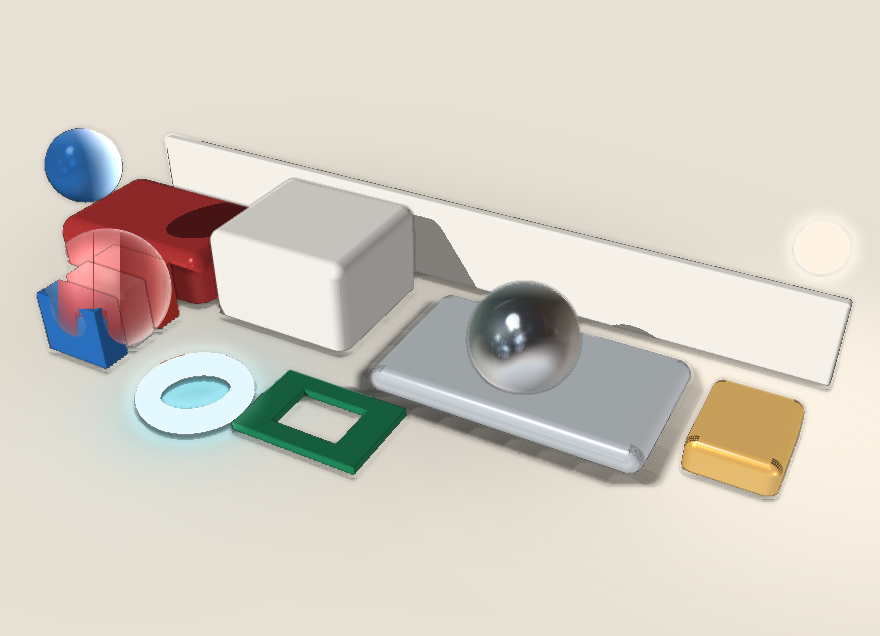
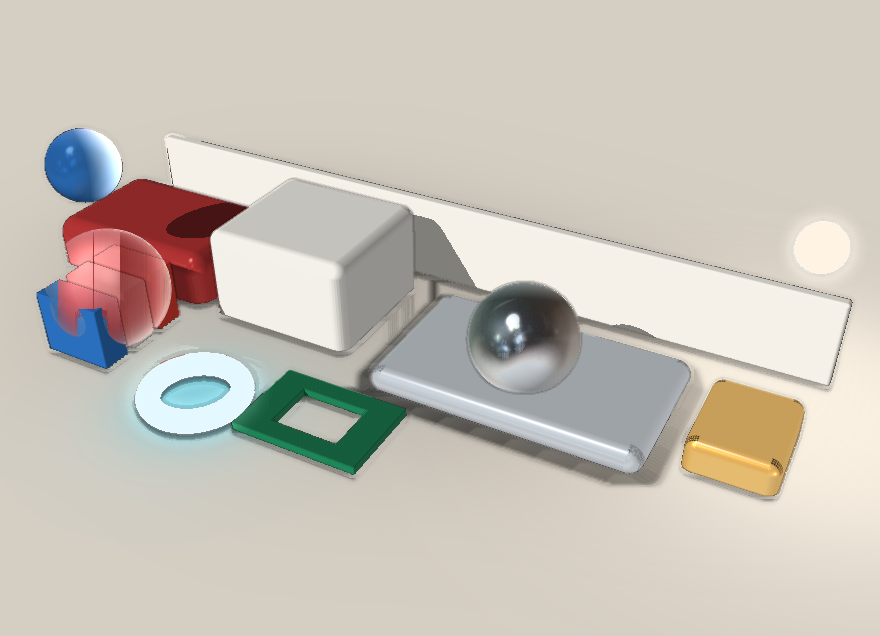
QUALITY-6 tip horzmild: mute still floor; mid cream Mac page.
Desksoft plateau 6/6/7/6 — quieter floor/page contrast for wall hairline
and pale Mac lip without bez9page's over-muted cream.

diff --git a/examples/macbook-pro.tsx b/examples/macbook-pro.tsx
@@ -3,7 +3,7 @@
 // 银色 16 英寸 MacBook Pro 海报，以后渲染用这个场景。
 // npx tsx src/cli.ts render examples/macbook-pro.tsx -o examples/macbook-pro.png
 // 机身 980 × 670 × 30，屏幕盖 980 × 666 × 10，按 2.755 px/mm 换算。
-// Desksoft: keep notick; mild darker silver so cream|shell AA lip is less bright.
+// Horzmild: keep notick + desksoft silver; mid cream page (between pagesoft and bez9page).
 const SILVER = '#454b53'
 const LID_SILVER = '#454b53'
 const SHELL = 'matte'
@@ -210,8 +210,8 @@ function Lid() {
 }
 
 export default (
-  <layer width="1440" height="1800" background="#f6f3ee" color="#1c1916" min-font="10" noise="0.018">
-    <rect x="0" y="0" width="1440" height="1800" fill="linear-gradient(180deg, #f7f4ef 0%, #efe8df 100%)" />
+  <layer width="1440" height="1800" background="#f0ebe4" color="#1c1916" min-font="10" noise="0.018">
+    <rect x="0" y="0" width="1440" height="1800" fill="linear-gradient(180deg, #f3efe8 0%, #e9e2d7 100%)" />
     <layer width="1440" height="1800" camera="fov 28, orbit 16 14" light="world" grade="matte 0.85">
       {/* Neutral key — warm hemi alone bounced chrome-orange on the hinge (§9.2). */}
       <light type="hemisphere" intensity="0.32" color="#e2e4e8" ground-color="#aeb2b8" />
@@ -219,7 +219,7 @@ export default (
       <light type="directional" intensity="0.03" color="#d6dae0" x="-280" y="-200" z="400" target="0 0 0" />
       <Lid />
       <Base />
-      <ground y={STAGE.groundY} rotateX="90" fill="#efe8df" shadow-blur="250" shadow-opacity="0.12" />
+      <ground y={STAGE.groundY} rotateX="90" fill="#e9e2d7" shadow-blur="250" shadow-opacity="0.12" />
     </layer>
     <layer x="80" y="66">
       <p style="font-family:Inter; font-size:13px; font-weight:700; letter-spacing:6.2px; color:#c88255">PRO PERFORMANCE · M4 MAX</p>

diff --git a/scripts/gallery-3d.ts b/scripts/gallery-3d.ts
@@ -340,7 +340,7 @@ function buildPlates(): { sheet: string; title: string; cols: number; cells: Pla
       title: '静物 · studio · draft',
       width: BENCH_W,
       height: BENCH_H + 96,
-      // Desksoft: lift page again — notick A still cited wall-top hairline.
+      // Horzmild: keep desksoft page; mute cream floor so wall-top AA vs page is quieter.
       background: '#38322c',
       caption: '贴地接触 · 悬空软影 · 缝里的遮挡 · 铬球 · 玻璃和色条 · 洞 · 霓虹 · 灯',
       // Still-only: cooler white stripe + clear glass (horizontal white killed
@@ -349,10 +349,8 @@ function buildPlates(): { sheet: string; title: string; cols: number; cells: Pla
         bench()
           .replace(
             '<ground id="ground" y="530" rotateX="90" fill="#e7e0d4" shadow-blur="40" shadow-opacity="0.5" />',
-            // Mintbars: glassvol A jagged plate contact — softer penumbra.
-            // Keep plate metalness ≤0.62 / r≥0.48 — brighter plate blew SSR >0.01.
-            // Macmid: slightly softer contact under plate (maclip B speckles).
-            '<ground id="ground" y="530" rotateX="90" fill="#e7e0d4" shadow-blur="225" shadow-opacity="0.18" />',
+            // Horzmild: darker cream floor — bright #e7e0d4 against dark page reads as hairline.
+            '<ground id="ground" y="530" rotateX="90" fill="#d5cec3" shadow-blur="225" shadow-opacity="0.18" />',
           )
           .replace(
             '<rect id="metal-plate" x="470" y="64" width="250" height="150" depth="26" rx="10" fill="#cfd3d8" material="finish metal, color #cfd3d8, roughness 0.58, metalness 0.42, clearcoat 0" />',
